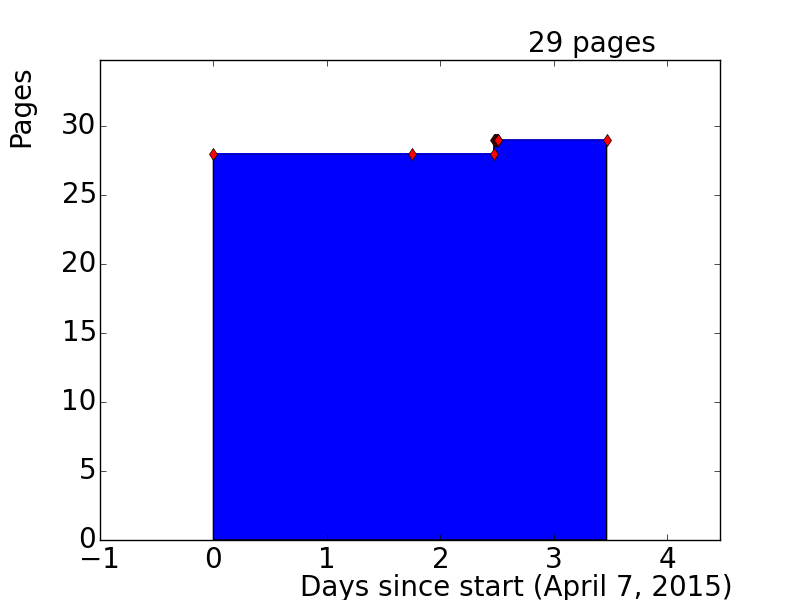
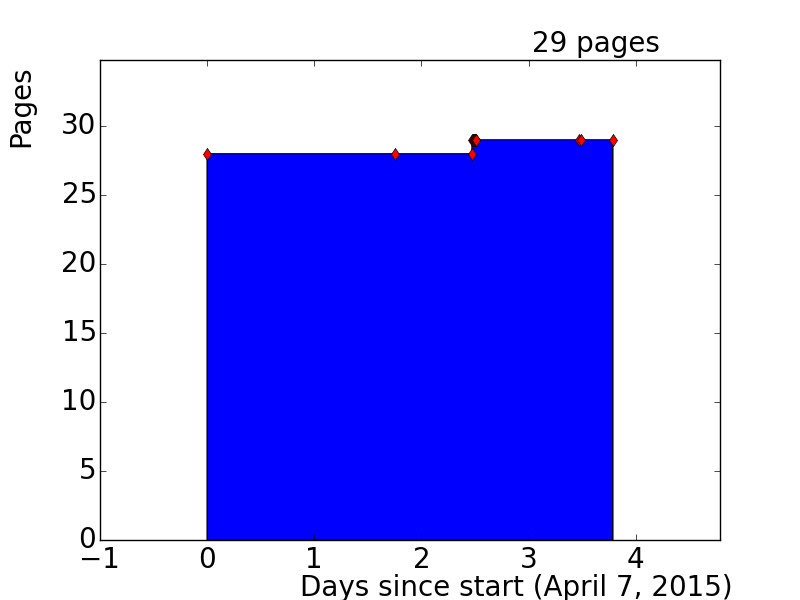
Huh?

diff --git a/pages.md b/pages.md
@@ -15,3 +15,5 @@
 + [2015-04-09-12h12m48s] 29
 + [2015-04-09-12h13m41s] 29
 + [2015-04-10-11h14m00s] 29
++ [2015-04-10-11h50m06s] 29
++ [2015-04-10-18h53m24s] 29
